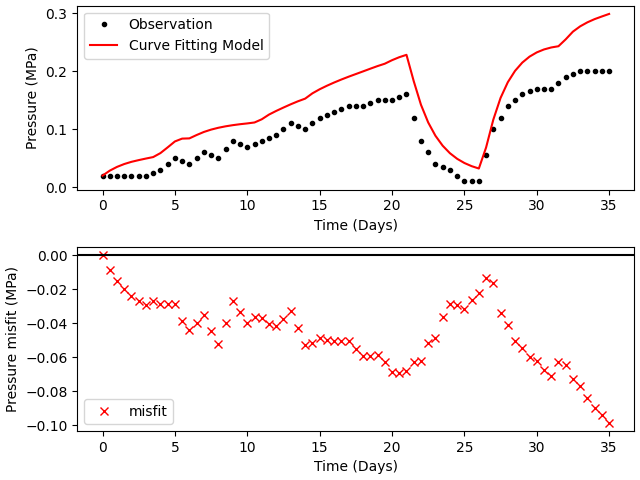
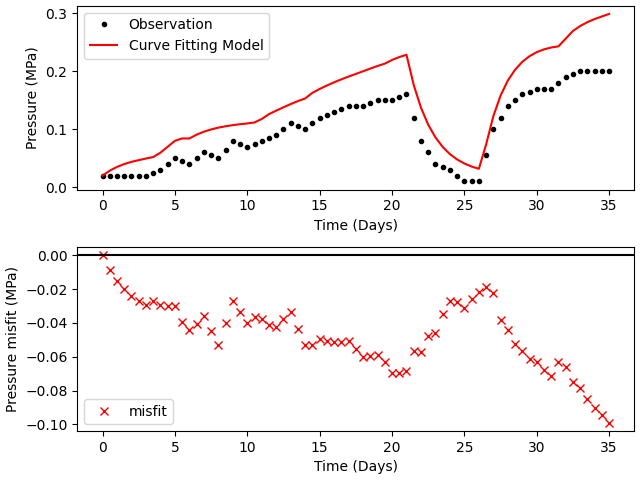
c=0

diff --git a/ethan_stinky_model_attempt2.py b/ethan_stinky_model_attempt2.py
@@ -24,7 +24,7 @@ a = 9.81 * 10 ** (-4) #g / (area * porosity)
 
 length = (0.8080259027586483 / 0.0008703704260405302) * (viscosity / (k * density * area))
 b = 0.586 # a * (k * density * area) / (viscosity * length)
-c = -6*(10**-5)
+c = 0
 
 A_GUESS = a;
 B_GUESS = b;
